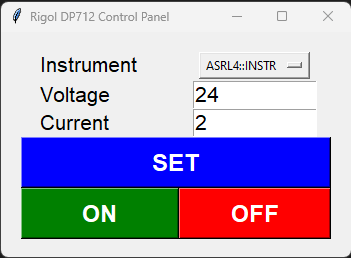
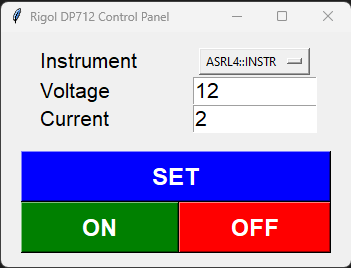
updated GUI

diff --git a/demoGUI.py b/demoGUI.py
@@ -35,7 +35,7 @@ def offFunction():
 
 if __name__=="__main__":
     window = Tk()   
-    window.geometry("350x225")
+    window.geometry("350x235")
     window.title("Rigol DP712 Control Panel")
     window.columnconfigure(0, weight=1)
     window.rowconfigure(0, weight=1)
@@ -46,6 +46,7 @@ if __name__=="__main__":
     ttk.Label(mainframe,text="Instrument",font=("Arial",16),width=10,justify=LEFT).grid(row=1,column=1)
     ttk.Label(mainframe,text="Voltage",font=("Arial",16),width=10,justify=LEFT).grid(row=2,column=1)
     ttk.Label(mainframe,text="Current",font=("Arial",16),width=10,justify=LEFT).grid(row=3,column=1)
+    ttk.Label(mainframe,text=" ",font=("Arial",8),width=10,justify=LEFT).grid(row=4,column=1,columnspan=2)
 
     OPTIONS = pyvisa.ResourceManager().list_resources()
     Instrument_Target = StringVar(mainframe)
@@ -64,16 +65,16 @@ if __name__=="__main__":
     f = font.Font(weight="bold",size=18,family="Arial")
     Set_button = Button(mainframe, text="SET", command=setFunction,width=20,bg="blue",fg="white",activebackground="white",activeforeground="blue")
     Set_button['font'] = f
-    Set_button.grid(row=4,column=1,columnspan=2)
+    Set_button.grid(row=5,column=1,columnspan=2)
 
     f = font.Font(weight="bold",size=18,family="Arial")
     Set_button = Button(mainframe, text="ON", command=onFunction,width=8,bg="green",fg="white",activebackground="white",activeforeground="green")
     Set_button['font'] = f
-    Set_button.grid(row=5,column=1, padx=0, pady=0, sticky=NSEW)
+    Set_button.grid(row=6,column=1, padx=0, pady=0, sticky=NSEW)
 
     f = font.Font(weight="bold",size=18,family="Arial")
     Set_button = Button(mainframe, text="OFF", command=offFunction,width=8,bg="red",fg="white",activebackground="white",activeforeground="red")
     Set_button['font'] = f
-    Set_button.grid(row=5,column=2,columnspan=2, padx=0, pady=0, sticky=NSEW)
+    Set_button.grid(row=6,column=2,columnspan=2, padx=0, pady=0, sticky=NSEW)
 
     mainloop()
